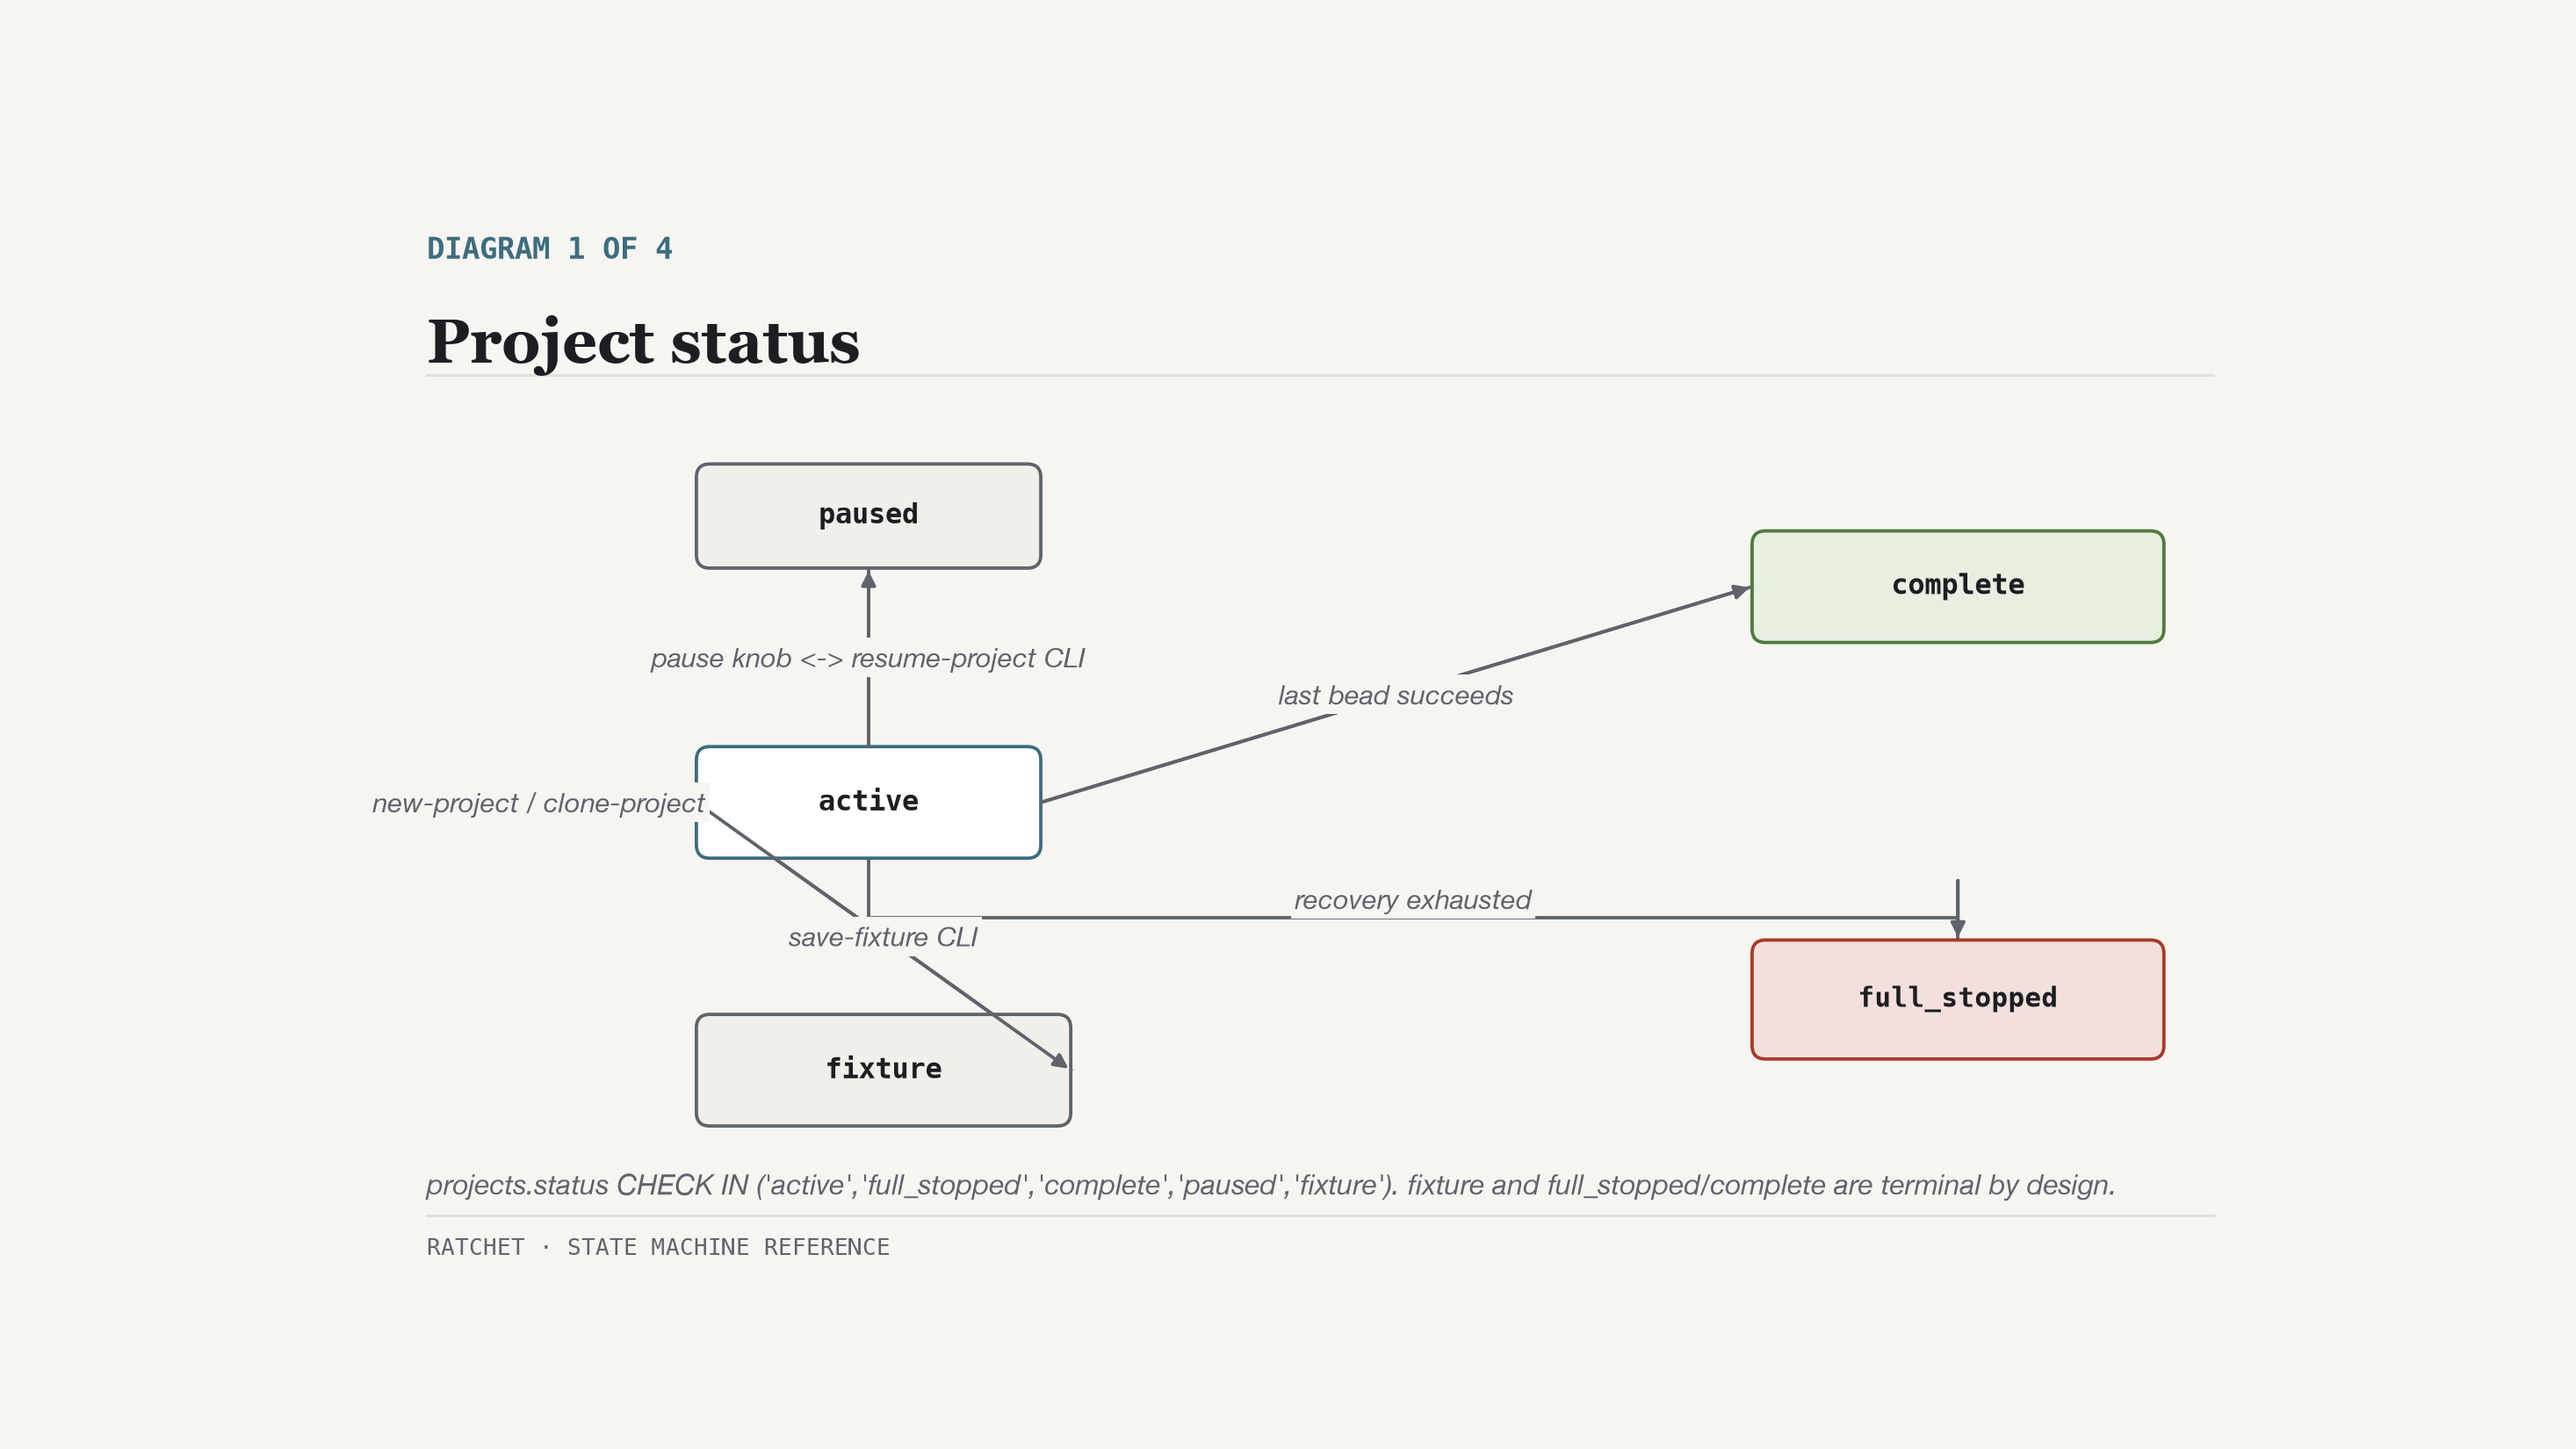
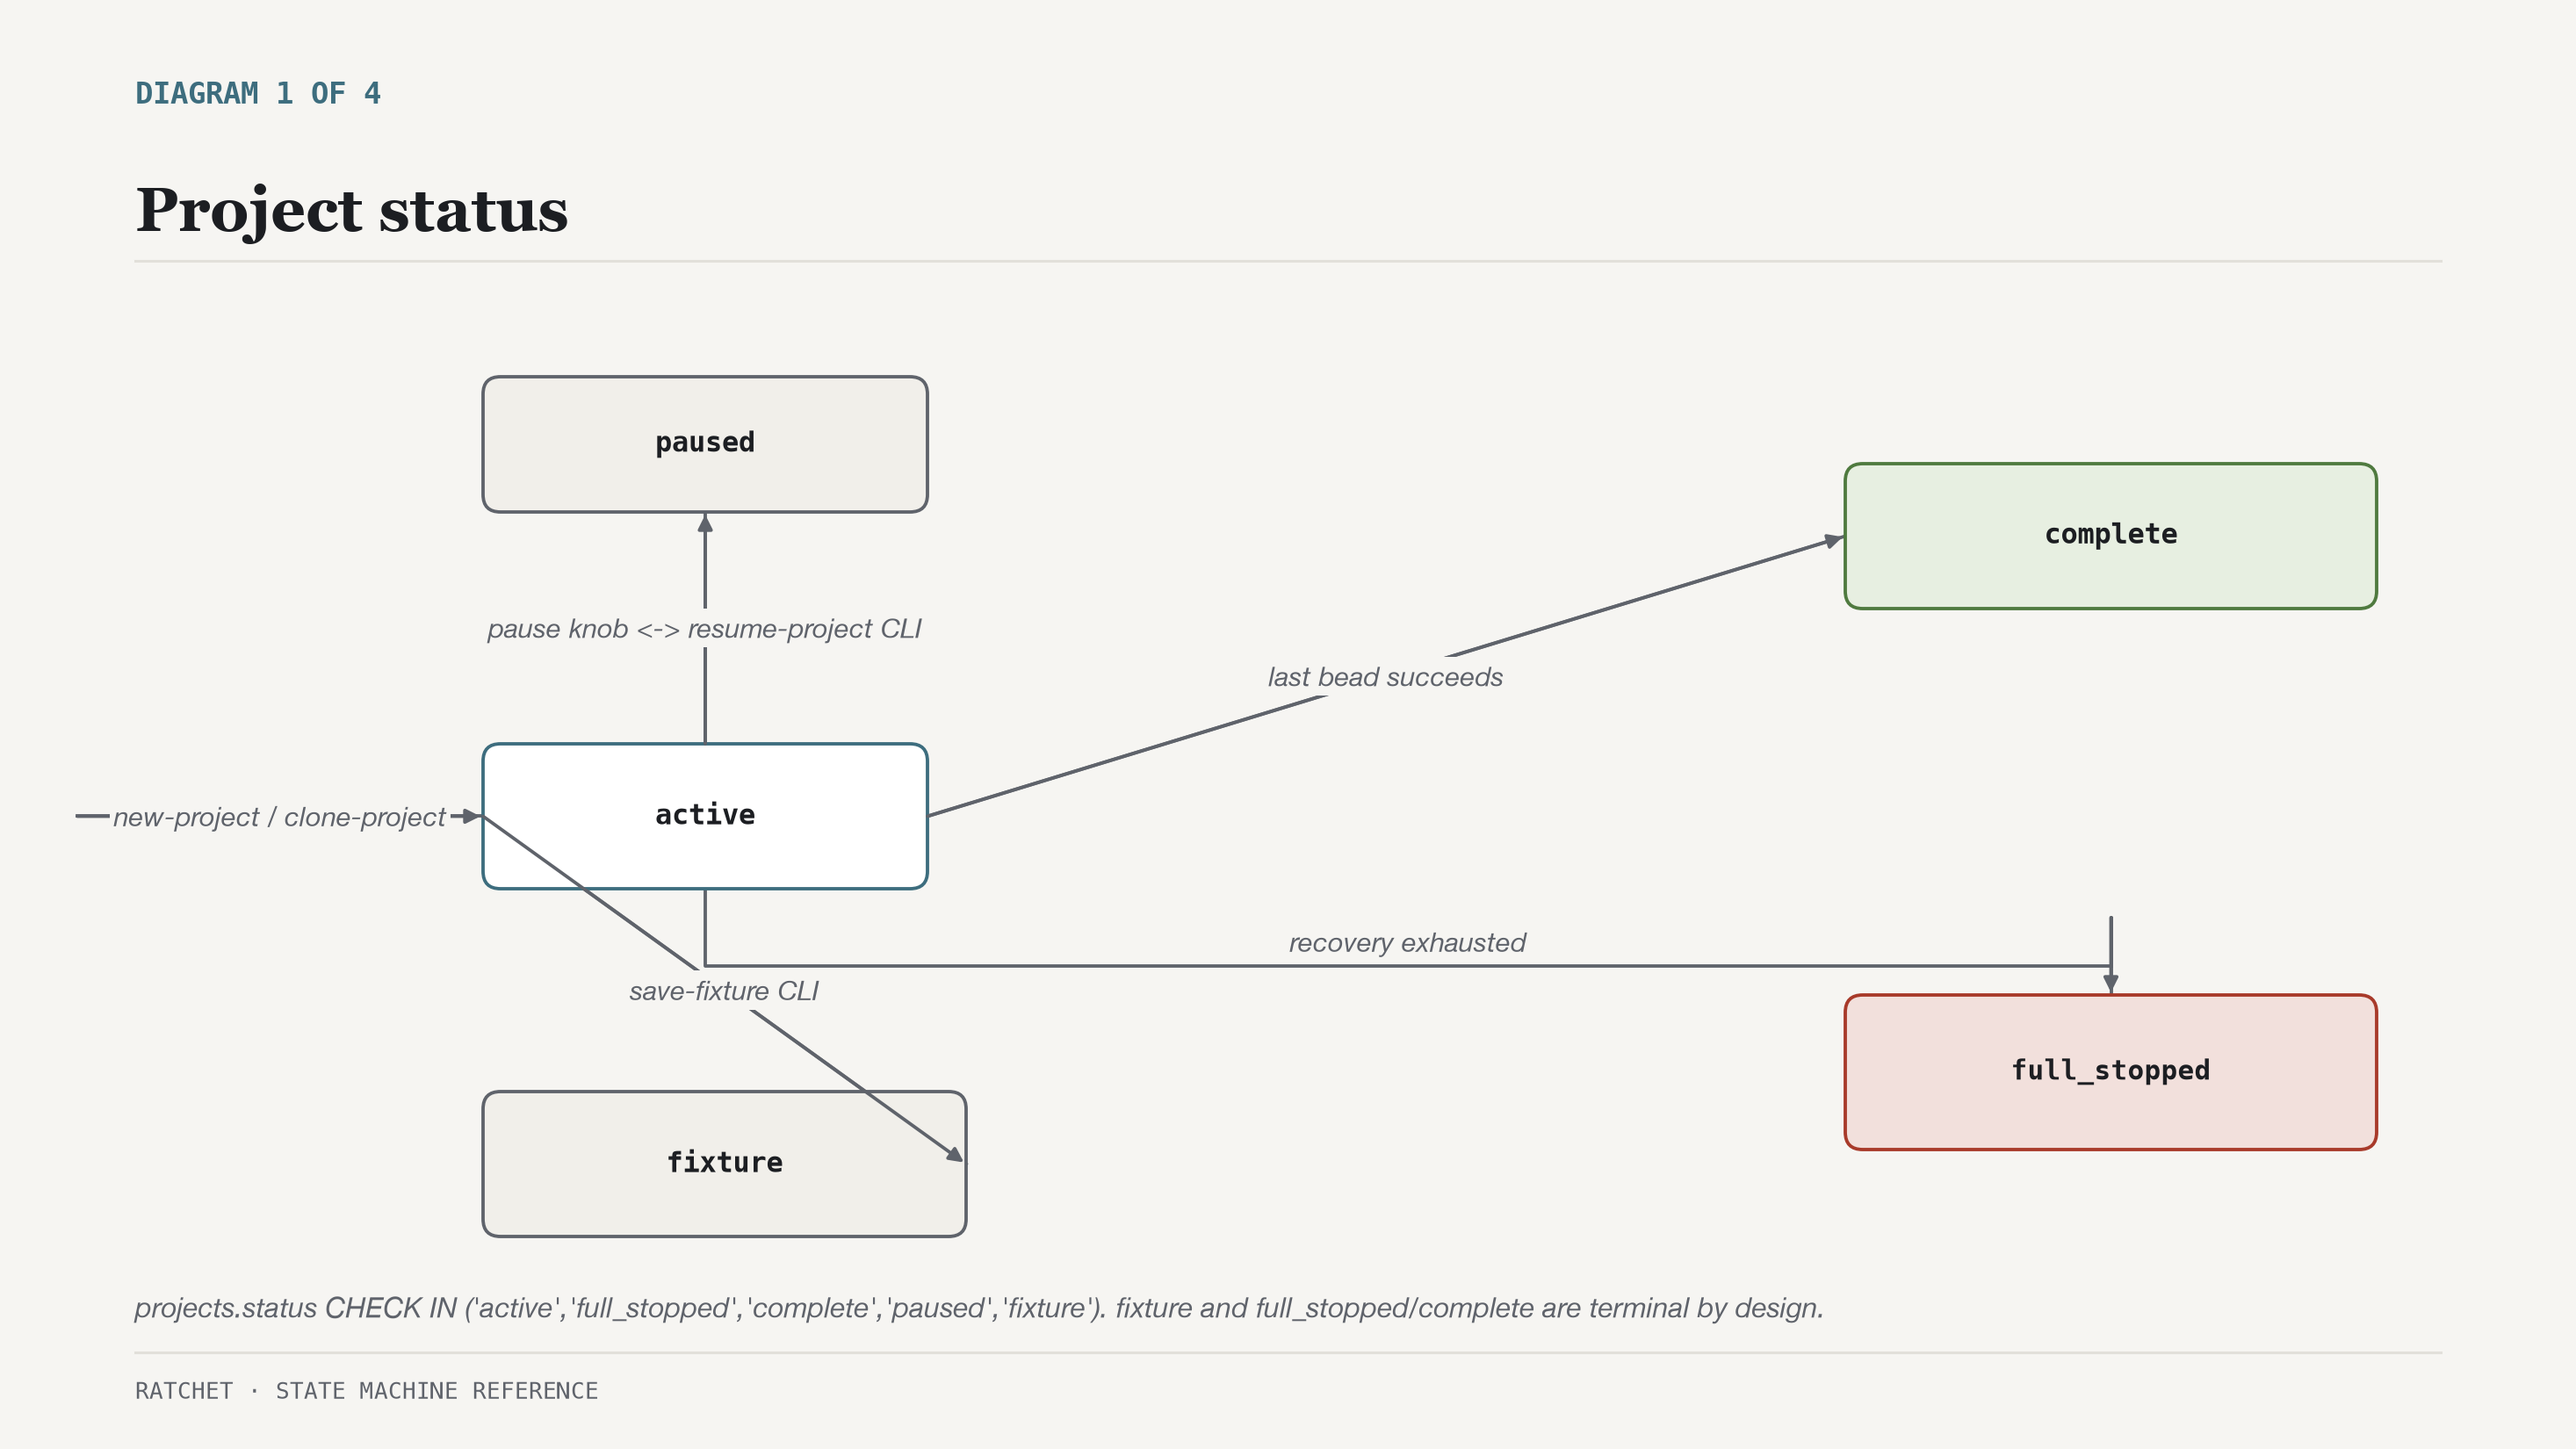
fix(state-machine-diagram-pngs): full-bleed axes for correct inch scale
matplotlib's default subplot margins compress the data coordinate
system relative to the physical figure, so 1 data-unit no longer
equals 1 inch — while text (sized in absolute points) doesn't
compress with it. Harmless here today since every box width in this
script is a fixed literal, not derived from a measured text width,
but it's the exact bug that bit a sibling diagram script (an ad hoc
turn-evaluation infographic, not part of this repo) built the same
day: chip widths computed from TextPath measurements overflowed
their boxes because of this same margin mismatch. Fixed with
fig.subplots_adjust(left=0, right=1, top=1, bottom=0) so any future
addition here that sizes a shape to fit measured text doesn't hit
the same trap. Regenerated all 4 PNGs — no visual regressions; the
project-status diagram's entry arrow is now fully on-canvas rather
than clipped at the left edge, a minor accuracy improvement from the
same fix.

Claude-Session: https://claude.ai/code/session_01QejvSjAFkShGCBS2VEsX4D

diff --git a/scripts/build-state-machine-diagram-pngs.py b/scripts/build-state-machine-diagram-pngs.py
@@ -65,6 +65,14 @@ class Diagram:
     def __init__(self, kicker, title, caption=None):
         self.fig, self.ax = plt.subplots(figsize=(SLIDE_W, SLIDE_H), dpi=DPI)
         ax = self.ax
+        # Full-bleed axes: without this, matplotlib's default margins compress
+        # the data coordinate system relative to the physical figure, so 1
+        # data-unit no longer equals 1 inch — harmless here since every box
+        # width below is a fixed literal, not derived from a text-width
+        # measurement, but it's a latent trap for any future addition that
+        # sizes a shape to fit measured text (see turn-eval-tiers.py, which
+        # hit exactly this).
+        self.fig.subplots_adjust(left=0, right=1, top=1, bottom=0)
         ax.set_xlim(0, SLIDE_W)
         ax.set_ylim(0, SLIDE_H)
         ax.invert_yaxis()  # pptx-style top-left origin, y grows downward
